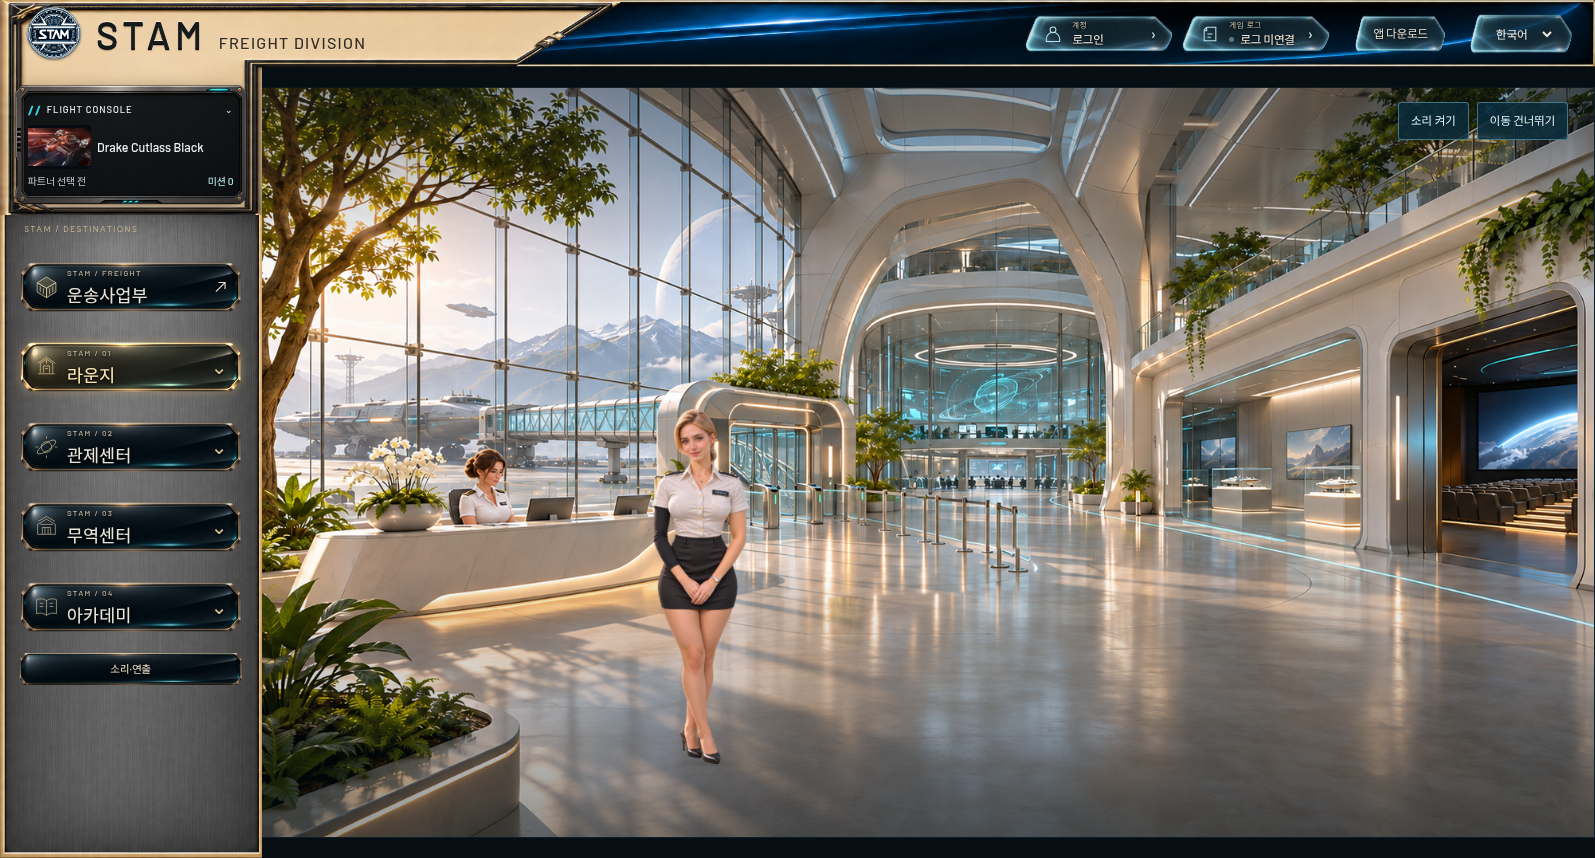
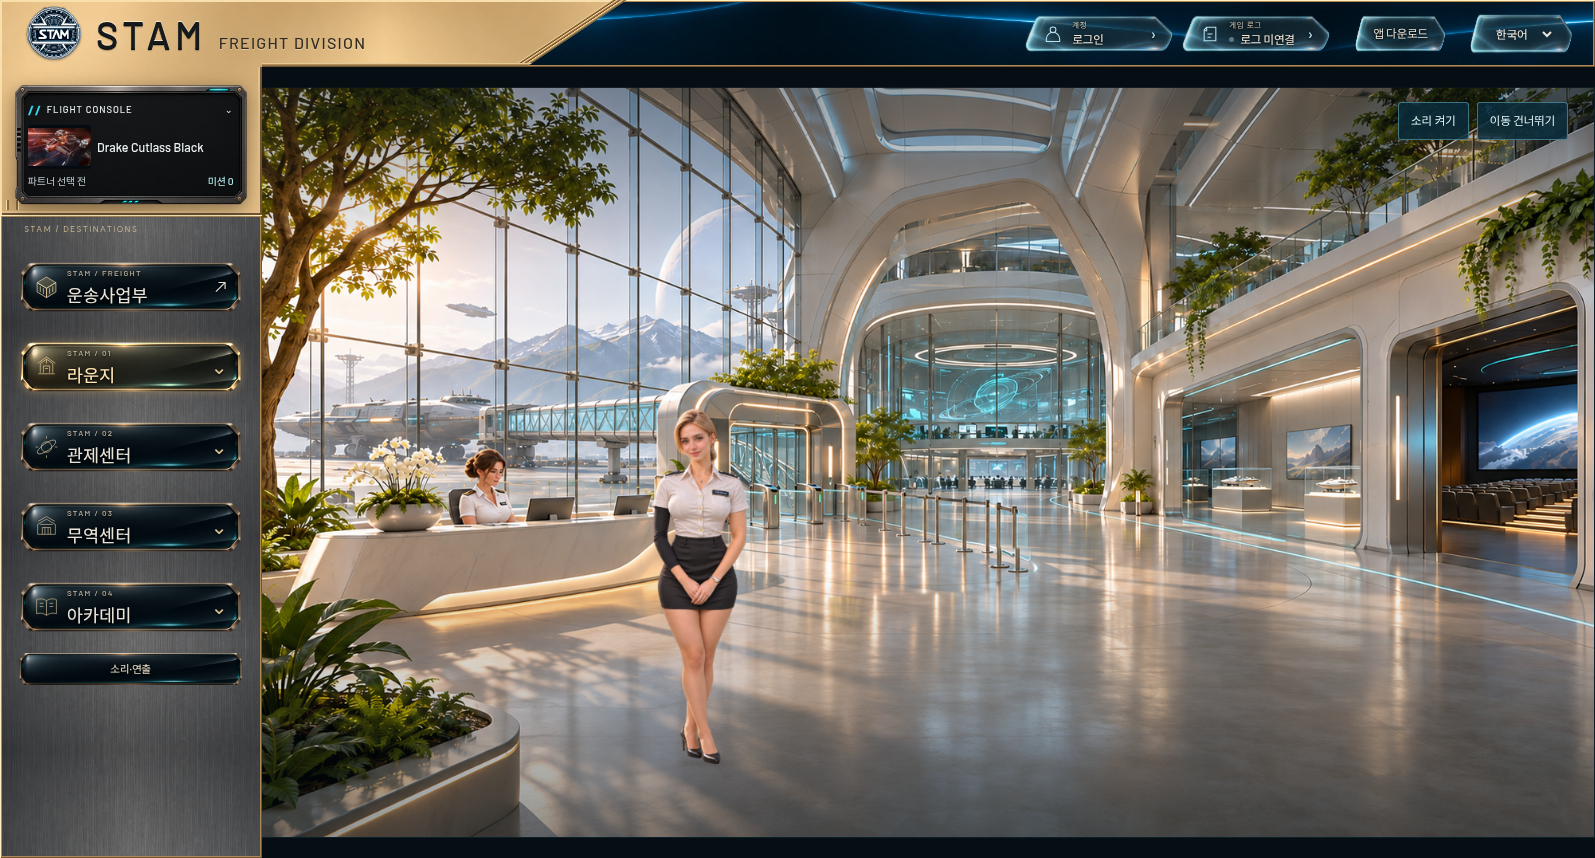
Render smooth champagne housing and fixed-density material tiles

Changed region(s): [[0.0, 0.0, 1.0, 1.0]]

diff --git a/apps/control-room/src/black-gold-shell.css b/apps/control-room/src/black-gold-shell.css
@@ -43,15 +43,51 @@
 }
 /* Fixed shell geometry; only plain edge strips grow with the viewport. */
 .space-experience{position:relative;isolation:isolate;padding:0;box-sizing:border-box;--shell-sidebar-width:clamp(248px,16.4vw,320px);background:#060e14}
-.shell-material{position:absolute;inset:0;z-index:-1;pointer-events:none;overflow:hidden}
-.shell-piece{position:absolute;display:block;overflow:hidden}
-.shell-join{left:0;top:0;width:var(--shell-sidebar-width);height:67px}
-.shell-sweep{left:var(--shell-sidebar-width);top:0;width:400px;height:67px}
-.shell-top{left:var(--shell-sidebar-width);right:4px;top:0;width:calc(100% - var(--shell-sidebar-width) - 4px);height:67px}
-.shell-top-end{right:0;top:0;width:4px;height:67px}
-.shell-connector{left:0;top:67px;width:var(--shell-sidebar-width);height:var(--shell-connector-height,164px)}
-.shell-side{left:0;top:calc(67px + var(--shell-connector-height,164px));width:var(--shell-sidebar-width);height:max(0px,calc(100% - 73px - var(--shell-connector-height,164px)))}
-.shell-side-end{left:0;bottom:0;width:var(--shell-sidebar-width);height:6px}
+/* Fixed-pitch, mirrored material tiles. The machined edges are drawn at
+   device resolution, independently of the length of either navigation bar. */
+.shell-material {
+ position:absolute; inset:0; z-index:-1; pointer-events:none; overflow:hidden;
+ --bar-height:67px; --plate-width:calc(var(--shell-sidebar-width) + 365px);
+ --step:var(--shell-connector-height,164px);
+ --rim:inset 1px 1px #fff0be, inset -1px -1px #735231, inset 0 0 0 2px #ae8957;
+}
+.shell-top,.shell-nameplate,.shell-connector,.shell-side {position:absolute; box-sizing:border-box}
+.shell-top {
+ inset:0 0 auto; height:var(--bar-height); box-shadow:var(--rim);
+ background:#041420 url('./assets/navigation/finish-midnight.webp') center 12% / 1024px 214px repeat;
+}
+.shell-side {
+ left:0; bottom:0; top:calc(var(--bar-height) + var(--step)); width:var(--shell-sidebar-width);
+ box-shadow:var(--rim);
+ background:linear-gradient(90deg,#11141955,transparent 50%,#11141955),
+  url('./assets/navigation/finish-graphite.webp') 0 0 / 682px 214px repeat;
+}
+.shell-gold {
+ background:#c9a873 url('./assets/navigation/finish-gold.webp') 0 var(--gold-y,0px) / 768px 512px;
+}
+.shell-nameplate {
+ inset:0 auto auto 0; width:var(--plate-width); height:var(--bar-height);
+ clip-path:polygon(0 0,100% 0,calc(100% - var(--bar-height)*1.5) 100%,0 100%);
+ box-shadow:inset 2px 2px #f9dfac;
+}
+.shell-nameplate::after {
+ content:''; position:absolute; bottom:0; left:var(--shell-sidebar-width); right:0;
+ height:4px; background:linear-gradient(#ffe8b4,#ad8956 40%,#624626);
+}
+.shell-cut {
+ position:absolute; top:0; right:0; bottom:0; width:15px;
+ transform:skewX(-56.31deg); transform-origin:right top;
+ background:linear-gradient(90deg,#ffebbc,#a8814e 12%,#654421 23%,#ffdc97 32%,#aa804e 45%,#6d4827 58%,#f7d9a4 65%,#a78551 81%,#49331e);
+}
+.shell-connector {
+ --gold-y:calc(0px - var(--bar-height)); top:var(--bar-height); left:0;
+ width:var(--shell-sidebar-width); height:var(--step);
+ box-shadow:inset 2px 0 #f9dfac,inset -2px -2px #725333,inset -4px -4px #e1c18c;
+}
+.shell-connector::after {
+ content:''; position:absolute; bottom:5px; left:7px; width:7px; height:10px;
+ border-inline:2px solid #936c3f; box-shadow:1px 0 #ffe6b0,-1px 0 #ffe6b0;
+}
 .space-experience>header.space-topbar{position:relative;background:transparent;border:0;box-shadow:none;height:67px;min-height:67px;padding:8px 24px;box-sizing:border-box;gap:28px}
 /* Live Barlow lettering stays sharp at any scale on the gold casting. */
 .space-experience .space-topbar .room-brand{gap:12px;text-decoration:none}
@@ -84,12 +120,8 @@
  .space-experience{padding:0;--shell-sidebar-width:clamp(248px,16.4vw,320px)}
  .space-experience .space-sidebar{padding:6px 16px 10px}
  .shell-material{inset:0;mask-image:linear-gradient(to bottom,#000 96px,transparent 132px)}
- .shell-connector,.shell-side,.shell-side-end{display:none}
- .shell-piece{height:120px}
- .shell-join{width:240px}
- .shell-sweep{left:240px;width:110px}
- .shell-top{left:240px;right:4px;width:max(0px,calc(100% - 244px))}
- .shell-top-end{width:4px}
+ .shell-material{--bar-height:120px;--plate-width:350px}
+ .shell-connector,.shell-side{display:none}
  .space-sidebar :is(.space-group-button,.space-division-button){height:72px;min-height:72px}
  .space-sidebar :is(.space-group-button,.space-division-button) strong{font-size:17px}
  .space-sidebar .space-dock{background:#080f15;border:1px solid #c5ab7480;border-radius:0 0 14px 14px}
@@ -103,7 +135,7 @@
  .space-experience .space-topbar .brand-wordmark small{font-size:12px;letter-spacing:.04em}
  .space-experience .space-topbar .pilot-connections button{min-width:105px;padding-inline:8px;gap:5px}
  .space-experience .space-topbar .space-download{padding-inline:8px}
- .shell-sweep{width:200px}
+ .shell-material{--plate-width:calc(var(--shell-sidebar-width) + 190px)}
 }
 
 /* Guide playback occupies the same scene cell as the lounge, including while

diff --git a/apps/control-room/src/ShellMaterial.tsx b/apps/control-room/src/ShellMaterial.tsx
@@ -1,17 +1,7 @@
-import {useId,useLayoutEffect,useRef} from 'react';
-import glass from './assets/navigation/shell-top-glass.png';
-import gunmetal from './assets/navigation/shell-side-gunmetal.png';
-import ornament from './assets/navigation/shell-gold-ornament.png';
+import {useLayoutEffect,useRef} from 'react';
 
-/** A clean material asset, with no baked-in controls or room screenshot.
- * The corner and edge heights stay fixed; the plain strips fill the existing
- * navigation area without setting the dimensions of the live scene.
- * A single casting spans the header and console surround. The header uses a
- * straight diagonal material boundary; the sidebar ends the housing in a straight step.
- * The material stays in the chrome and never covers the scene aperture. */
 export function ShellMaterial(){
  const root=useRef<HTMLDivElement>(null);
- const goldClip=useId();
  useLayoutEffect(()=>{
   const material=root.current,shell=material?.closest('.space-experience');
   const sidebar=shell?.querySelector<HTMLElement>('.space-sidebar');
@@ -36,19 +26,14 @@ export function ShellMaterial(){
   window.addEventListener('resize',schedule);align();
   return()=>{observer.disconnect();cancelAnimationFrame(frame);sidebar.removeEventListener('scroll',schedule);window.removeEventListener('resize',schedule);};
  },[]);
- const pieces=[
-  ['top','0 0 1530 102',glass,1536,1024],
-  ['top-end','1530 0 6 102',glass,1536,1024],
-  ['join','0 0 216 102',ornament,1536,1024],
-  ['sweep','216 0 504 102',ornament,1536,1024],
-  ['connector','0 102 216 300',ornament,1536,1024],
-  ['side','0 0 384 1528',gunmetal,1024,1536],
-  ['side-end','0 1528 384 8',gunmetal,1024,1536],
- ] as const;
- return <div ref={root} className="shell-material" aria-hidden="true">
-  {pieces.map(([part,viewBox,source,width,height])=><svg key={part} className={`shell-piece shell-${part}`} viewBox={viewBox} preserveAspectRatio="none" focusable="false">
-   {part==='sweep'&&<defs><clipPath id={goldClip} clipPathUnits="userSpaceOnUse"><polygon points="216,0 670,0 663,10 539,98 536,102 216,102"/></clipPath></defs>}
-   <image clipPath={part==='sweep'?`url(#${goldClip})`:undefined} href={source} x="0" y="0" width={width} height={height}/>
-  </svg>)}
- </div>;
+ return (
+  <div ref={root} className="shell-material" aria-hidden="true">
+   <div className="shell-top" />
+   <div className="shell-side" />
+   <div className="shell-connector shell-gold" />
+   <div className="shell-nameplate shell-gold">
+    <span className="shell-cut" />
+   </div>
+  </div>
+ );
 }

diff --git a/docs/cinematics/shell-layout-fix-20261118/HANDOFF.md b/docs/cinematics/shell-layout-fix-20261118/HANDOFF.md
@@ -4,6 +4,12 @@
 - 작업 브랜치: `cinematic/shell-layout-fix-20261118`.
 - 기능 담당이 최신 기능 변경을 보존하면서 통합한다. main·공통 인계 직접 병합/배포 없음.
 
+## 매끈한 금장 하우징과 대형 화면 마감
+
+금장 면에는 새로 생성한 매끈한 샴페인 골드 반사 이미지를 사용한다. 남색 유리와 세로 결 건메탈은 재질 시트에서 분리했다. 세 재질 모두 좌우·상하 대칭으로 연결한 WebP 타일을 고정 크기로 배치한다. 절삭 홈 두 줄과 바깥 테두리는 CSS로 표시한다. 현재 렌더러는 이 세 타일을 사용한다. 아래의 구간 확대 및 장식 레일 설명은 이전 버전 기록이다.
+
+실제 브라우저 캡처는 [3840×2160 전체 화면](review/finish-4k.png)과 [2배 픽셀 밀도의 하우징 상세](review/finish-detail.png)에 저장했다.
+
 ## 최종 디자인 — 직선 사선·한 줄 브랜드·따뜻한 금색
 
 금색 이름판을 오른쪽으로 연장하고 곡선 대신 직선 사선으로 바꿨다. `STAM FREIGHT DIVISION`은 한 줄이며 STAM38px, 부제16px의 Barlow500 실제 텍스트다. 원형 로고60px·검은 입체 글씨를 유지했다. 761–1000px에서는44/30/12px로 줄여 버튼과 가로 넘침을 피하고, 모바일은40/27/10px 한 줄 브랜드에 기존 컨트롤을 줄바꿈한다. 데스크톱 상단67px와 장면 셀은 유지한다.

diff --git a/PROJECT_STATUS.md b/PROJECT_STATUS.md
@@ -1,3 +1,7 @@
+## 2026-11-18 연출 — 매끈한 금장 하우징 / PR #42
+
+새 샴페인 골드·유리·건메탈 재질을 고정 크기 타일로 적용했다. 4K 전체 화면과 고밀도 상세 캡처는 docs/cinematics/shell-layout-fix-20261118/review/finish-*.png. 기능 담당 통합 대기.
+
 ## 2026-11-18 연출 — 유리1번·건메탈3번 전용 자산 재제작 / PR #42 미배포
 
 작은 이미지 구간 확대와 재질 흐림을 줄이기 위해1번/3번을 각각 재생성했다. 유리1536×102 및 건메탈384×1536 실제 사용 구간. 2번 금색 장식 자산은 유지하고 유리는 연속 배경+금색 윤곽 겹침으로 이음새를 제거했다. 본문·가이드 좌표·기능 유지. 실제 native크기/출처/해시/최종 캡처는 기존 인계에 기록. 타입·빌드, 브랜드5크기/화면12개/하우징4상태 검증. 병합·배포 없음. 아래는 이전 단계.
